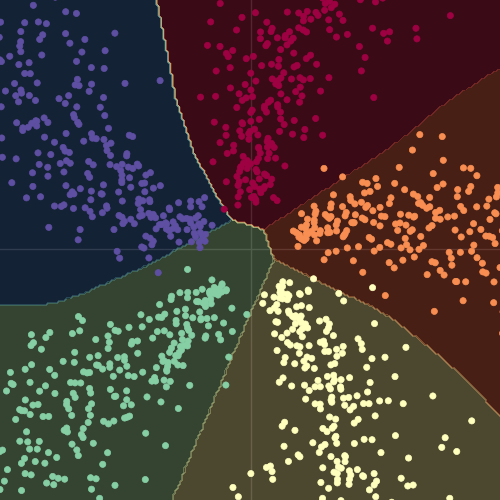
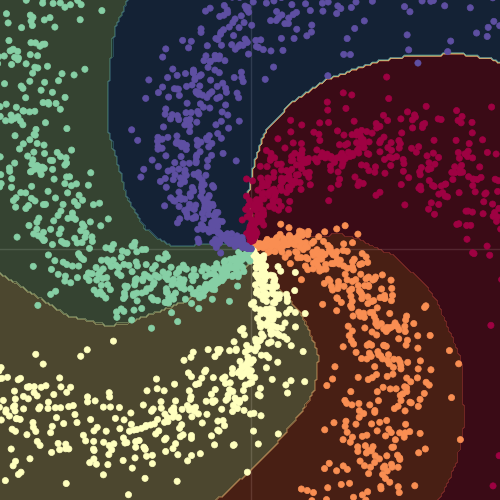
Extrapolate Decision Anim

diff --git a/part2/gen_ext.py b/part2/gen_ext.py
@@ -1,0 +1,100 @@
+from PIL import Image
+import numpy as np
+import torch
+from torch import nn
+import torch.nn.functional as F
+import math
+import numpy as np
+
+
+def get_data(n=1000, d=2, c=3, std=0.2):
+    X = torch.zeros(n * c, d)
+    y = torch.zeros(n * c, dtype=torch.long)
+    for i in range(c):
+        index = 0
+        r1 = torch.linspace(0.2, 1, 100)
+        t1 = torch.linspace(
+            i * 2 * math.pi / c,
+            (i + 2) * 2 * math.pi / c,
+            100
+        ) + torch.randn(100) * std
+
+        r2 = torch.linspace(1, 10, n-100)
+        t2 = torch.linspace(
+            (i + 2) * 2 * math.pi / c,
+            (i + 20) * 2 * math.pi / c,
+            n-100
+        ) + torch.randn(n-100) * std
+
+        r = torch.cat((r1, r2))
+        t = torch.cat((t1, t2))
+
+        for ix in range(n * i, n * (i + 1)):
+            X[ix] = r[index] * torch.FloatTensor((
+                math.sin(t[index]), math.cos(t[index])
+            ))
+            y[ix] = i
+            index += 1
+    return X.numpy(), y.numpy()
+
+
+torch.manual_seed(231)
+
+ASPECT_RATIO = 16.0 / 9.0
+FRAME_HEIGHT = 8.0
+FRAME_WIDTH = FRAME_HEIGHT * ASPECT_RATIO
+
+XRES = 1920
+YRES = 1080
+
+RED = (252, 98, 85)
+YELLOW = (255, 255, 0)
+GREEN = (131, 193, 103)
+BLUE = (88, 196, 221)
+PURPLE = (154, 114, 172)
+BLACK = (0, 0, 0)
+colors = [RED, YELLOW, GREEN, BLUE, PURPLE, BLACK]
+
+x_min = -FRAME_WIDTH/2
+x_max = FRAME_WIDTH/2
+y_min = -FRAME_HEIGHT/2
+y_max = FRAME_HEIGHT/2
+
+x_values = np.linspace(x_min, x_max, XRES+1)
+y_values = np.linspace(y_min, y_max, YRES+1)
+
+pixels = []
+X, y = get_data(c=5)
+
+
+def func(inp):
+    ans = -1
+    min_d = float("inf")
+
+    for i, x in enumerate(X):
+        xi, yi = x
+        dist = (inp[0] - xi)**2 + (inp[1] - yi)**2
+        if dist < min_d:
+            ans = y[i]
+            min_d = dist
+
+    return ans
+
+
+for i in range(len(y_values) - 1)[::-1]:
+    pixels.append([])
+    for j in range(len(x_values) - 1):
+        x1, x2 = x_values[j:j + 2]
+        y1, y2 = y_values[i:i + 2]
+
+        inp = [(x1 + x2)/2, (y1 + y2)/2]
+        c = colors[func(inp)]
+
+        pixels[-1].append(c)
+
+
+array = np.array(pixels, dtype=np.uint8)
+
+new_image = Image.fromarray(array)
+new_image.save("relu_ext_decisions.png")
+new_image.show()

diff --git a/part2/train_ext.py b/part2/train_ext.py
@@ -9,17 +9,27 @@ import math
 # %matplotlib notebook
 utils.set_default(figsize=(5, 5))
 
-def get_data(n=2000, d=2, c=3, std=0.2):
+def get_data(n=3000, d=2, c=3, std=0.2):
     X = torch.zeros(n * c, d)
     y = torch.zeros(n * c, dtype=torch.long)
     for i in range(c):
         index = 0
-        r = torch.linspace(0.2, 10, n)
-        t = torch.linspace(
+        r1 = torch.linspace(0.2, 1, 100)
+        t1 = torch.linspace(
             i * 2 * math.pi / c,
             (i + 2) * 2 * math.pi / c,
-            n
-        ) + torch.randn(n) * std
+            100
+        ) + torch.randn(100) * std
+
+        r2 = torch.linspace(1, 10, n-100)
+        t2 = torch.linspace(
+            (i + 2) * 2 * math.pi / c,
+            (i + 20) * 2 * math.pi / c,
+            n-100
+        ) + torch.randn(n-100) * std
+
+        r = torch.cat((r1, r2))
+        t = torch.cat((t1, t2))
 
         for ix in range(n * i, n * (i + 1)):
             X[ix] = r[index] * torch.FloatTensor((
@@ -43,8 +53,8 @@ class Model(nn.Module):
     def __init__(self, D_in, H, D_out):
         super(Model, self).__init__()
         self.linear1 = torch.nn.Linear(D_in, H)
-        self.linear2 = torch.nn.Linear(H, 2)
-        self.linear3 = torch.nn.Linear(2, D_out)
+        self.linear2 = torch.nn.Linear(H, 100)
+        self.linear3 = torch.nn.Linear(100, D_out)
     def forward(self, x):
         x = self.linear1(x)
         x = F.relu(x)
@@ -61,7 +71,7 @@ ax2 = plt.twinx(ax1); ax = ax1, ax2
 
 # Generate and train a model
 model = Model(2, 100, 5)
-acc_hist, loss_hist = utils.train(model, X, y, fig, ax, max_epochs=1500)
+acc_hist, loss_hist = utils.train(model, X, y, fig, ax, max_epochs=5000)
 
 # Save model to file
 utils.save_model('model3', model, (acc_hist, loss_hist))
